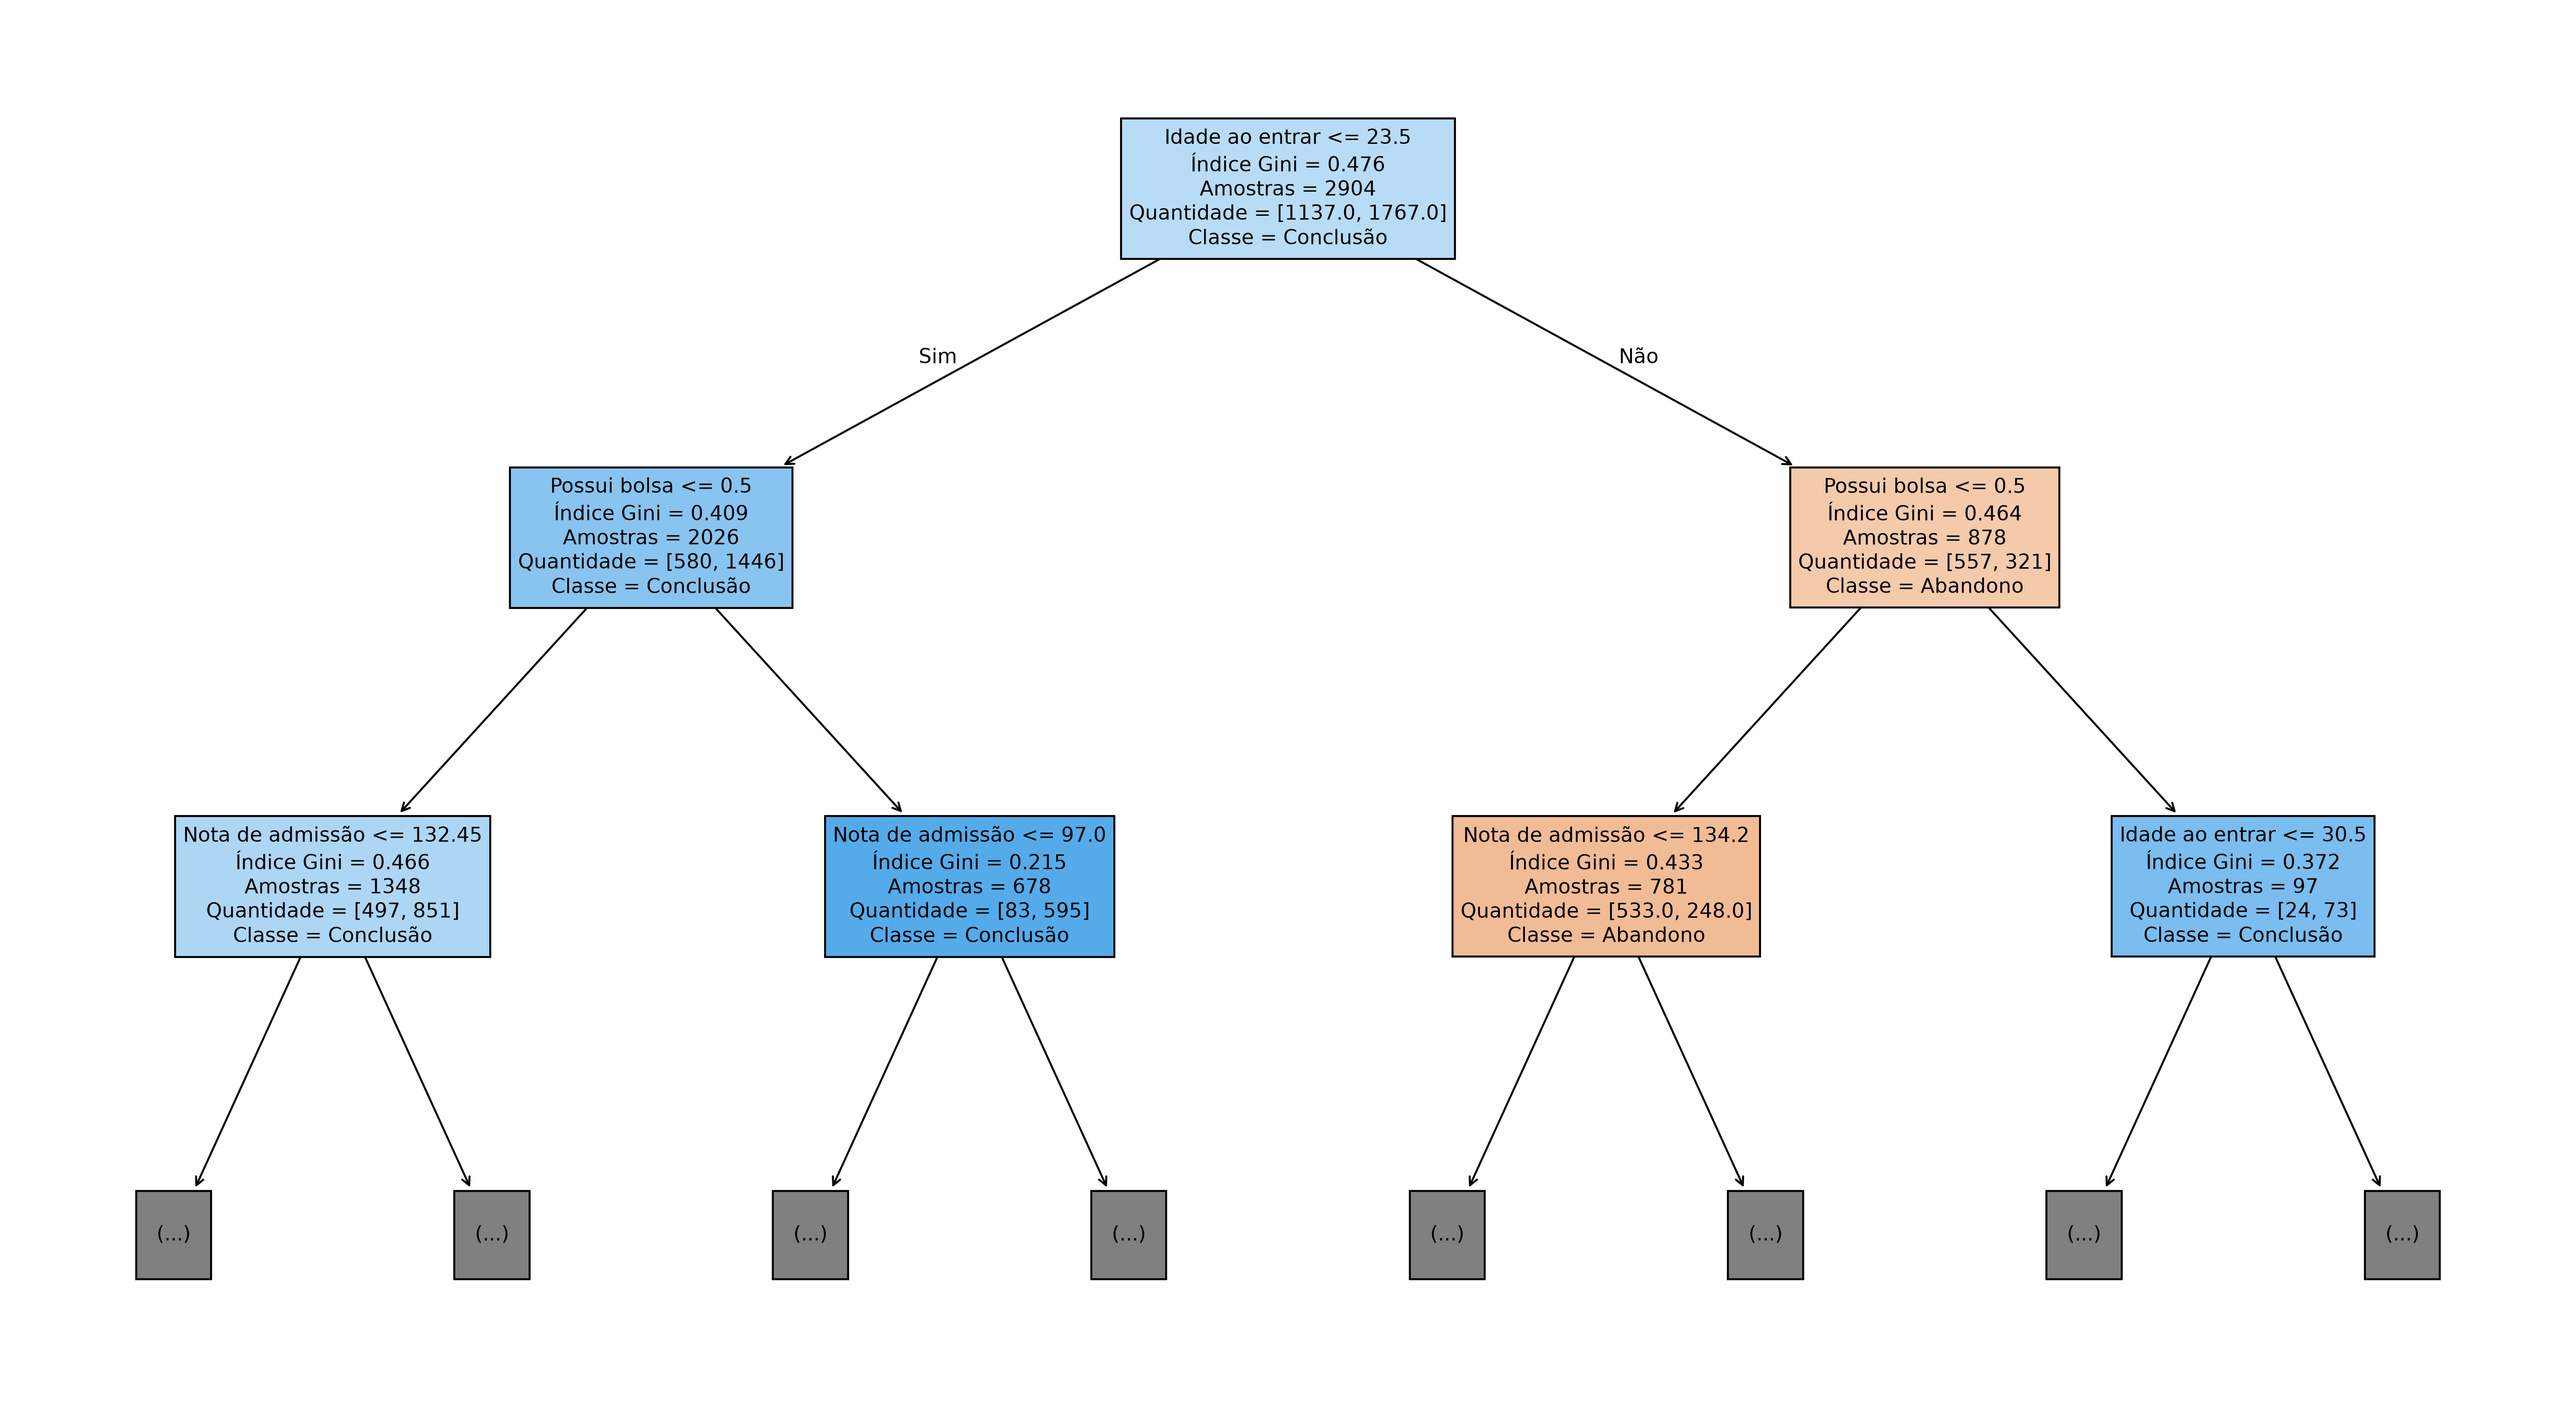
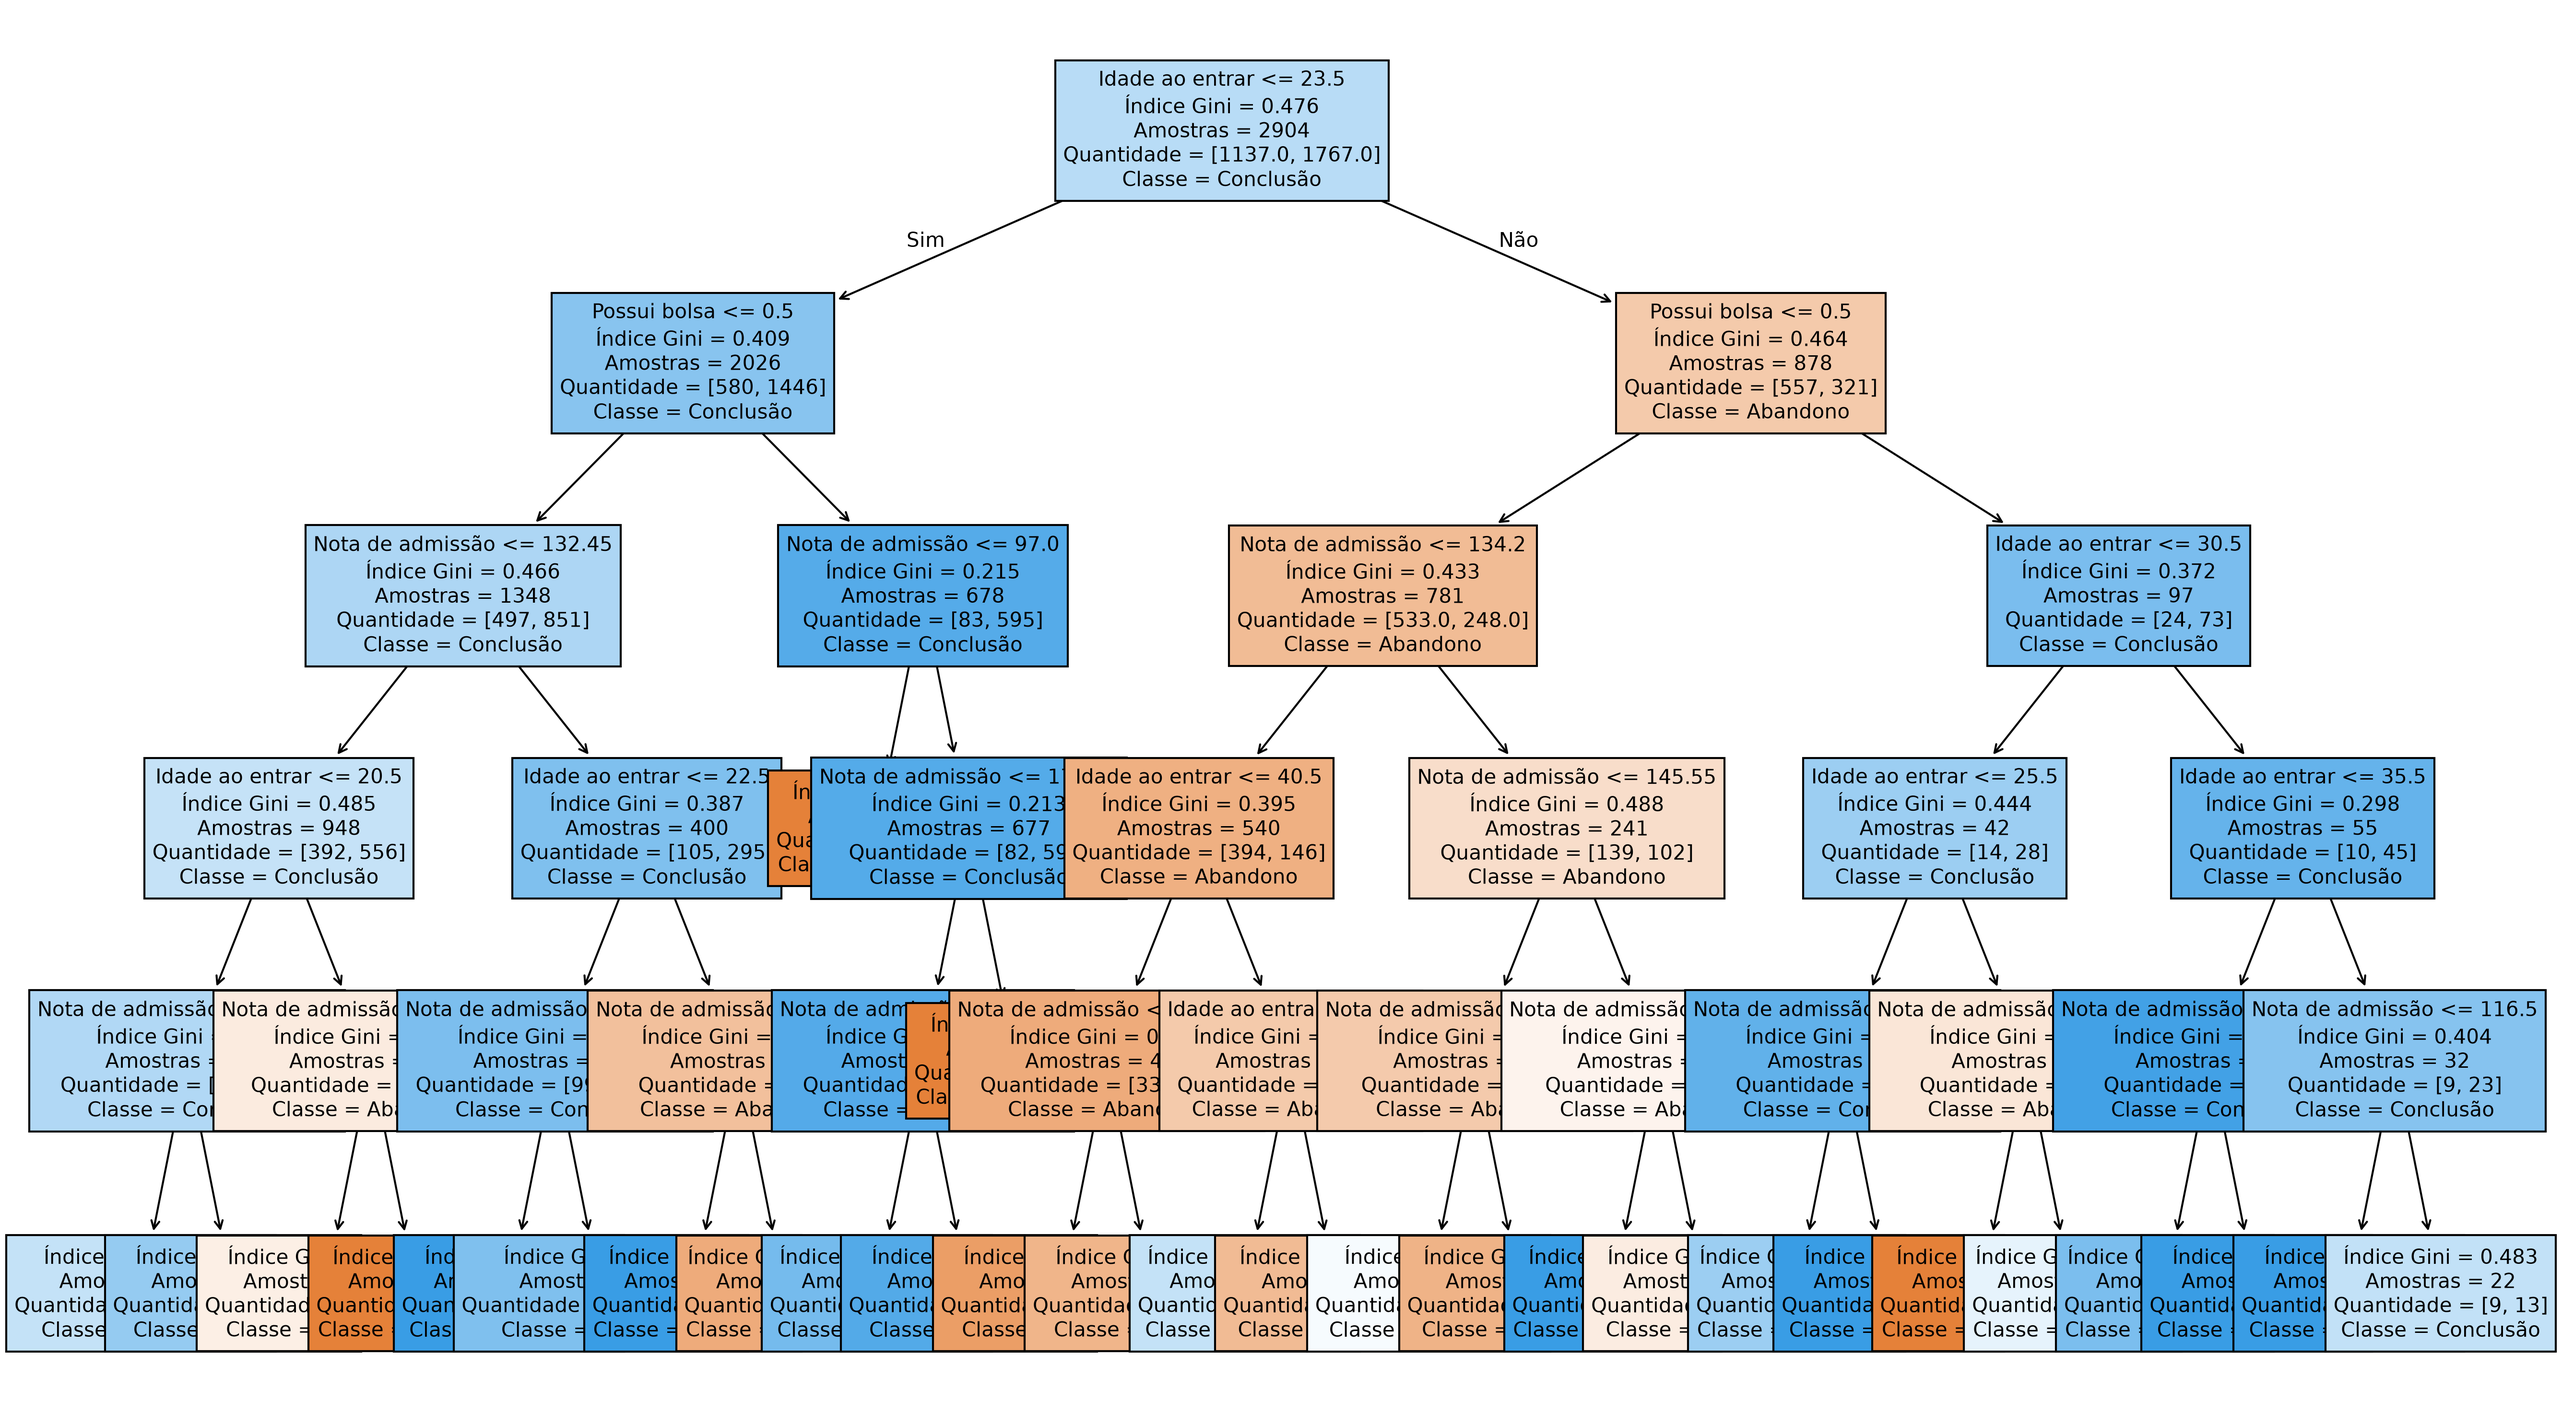
padronizando pre-processamento

diff --git a/treinar-DecisionTree.py b/treinar-DecisionTree.py
@@ -3,6 +3,7 @@ import os
 import numpy as np
 import matplotlib.pyplot as plt
 import joblib
+from dados import csvUpload, dataClear
 from sklearn.model_selection import train_test_split
 from sklearn.tree import DecisionTreeClassifier
 from sklearn.tree import plot_tree
@@ -11,16 +12,16 @@ from sklearn.metrics import confusion_matrix
 from sklearn.metrics import classification_report
 
 os.makedirs("resultados", exist_ok=True)
-df = pd.read_csv('data/dataset.csv', sep=";")
+# Carregar e tratar os dados
+df = csvUpload("data/dataset.csv")
+df = dataClear(df)
 
-df = df[df["Target"] != "Enrolled"]
-print(df.loc[:, "Target"].value_counts())
+print(df["Target"].value_counts())
 print(df.shape)
 
-##      nota de admissao    idade ao entrar     se possui bolsa
+## Separar as variáveis de entrada e o resultado
 X = df[["Admission grade", "Age at enrollment", "Scholarship holder"]]
 y = df["Target"]
-
 
 X_treino, X_teste, y_treino, y_teste = train_test_split(
     X, y, test_size=0.2, random_state=404, stratify=y
@@ -88,7 +89,6 @@ ax.set_title("Matriz de Confusão")
 plt.tight_layout()
 
 plt.savefig("resultados/decisiontree_confusao.png", dpi=300, bbox_inches="tight")
-plt.show(block=False)
 
 # Gera um relatório com métricas de avaliação do modelo,
 # mostrando precisão, recall, F1-score e quantidade de exemplos por categoria.
@@ -101,7 +101,7 @@ arvore = plot_tree(
     feature_names=["Nota de admissão", "Idade ao entrar", "Possui bolsa"],
     class_names=["Abandono", "Conclusão"],
     filled=True,
-    max_depth=2, ## Limita a profundidade da visualização da árvore a 2 níveis.
+    max_depth=5, ## Limita a profundidade da visualização da árvore a 2 níveis.
     fontsize=10
 )
 
@@ -119,7 +119,6 @@ for texto in plt.gca().texts:
 plt.tight_layout()
 # Salvar imagem
 plt.savefig("resultados/arvore_decisao.png", dpi=300, bbox_inches="tight")
-plt.show()
 
 # Salva o modelo treinado em um arquivo para utilizá-lo posteriormente no Flask.
 joblib.dump(modelo, "modelo_decision_tree.pkl")
